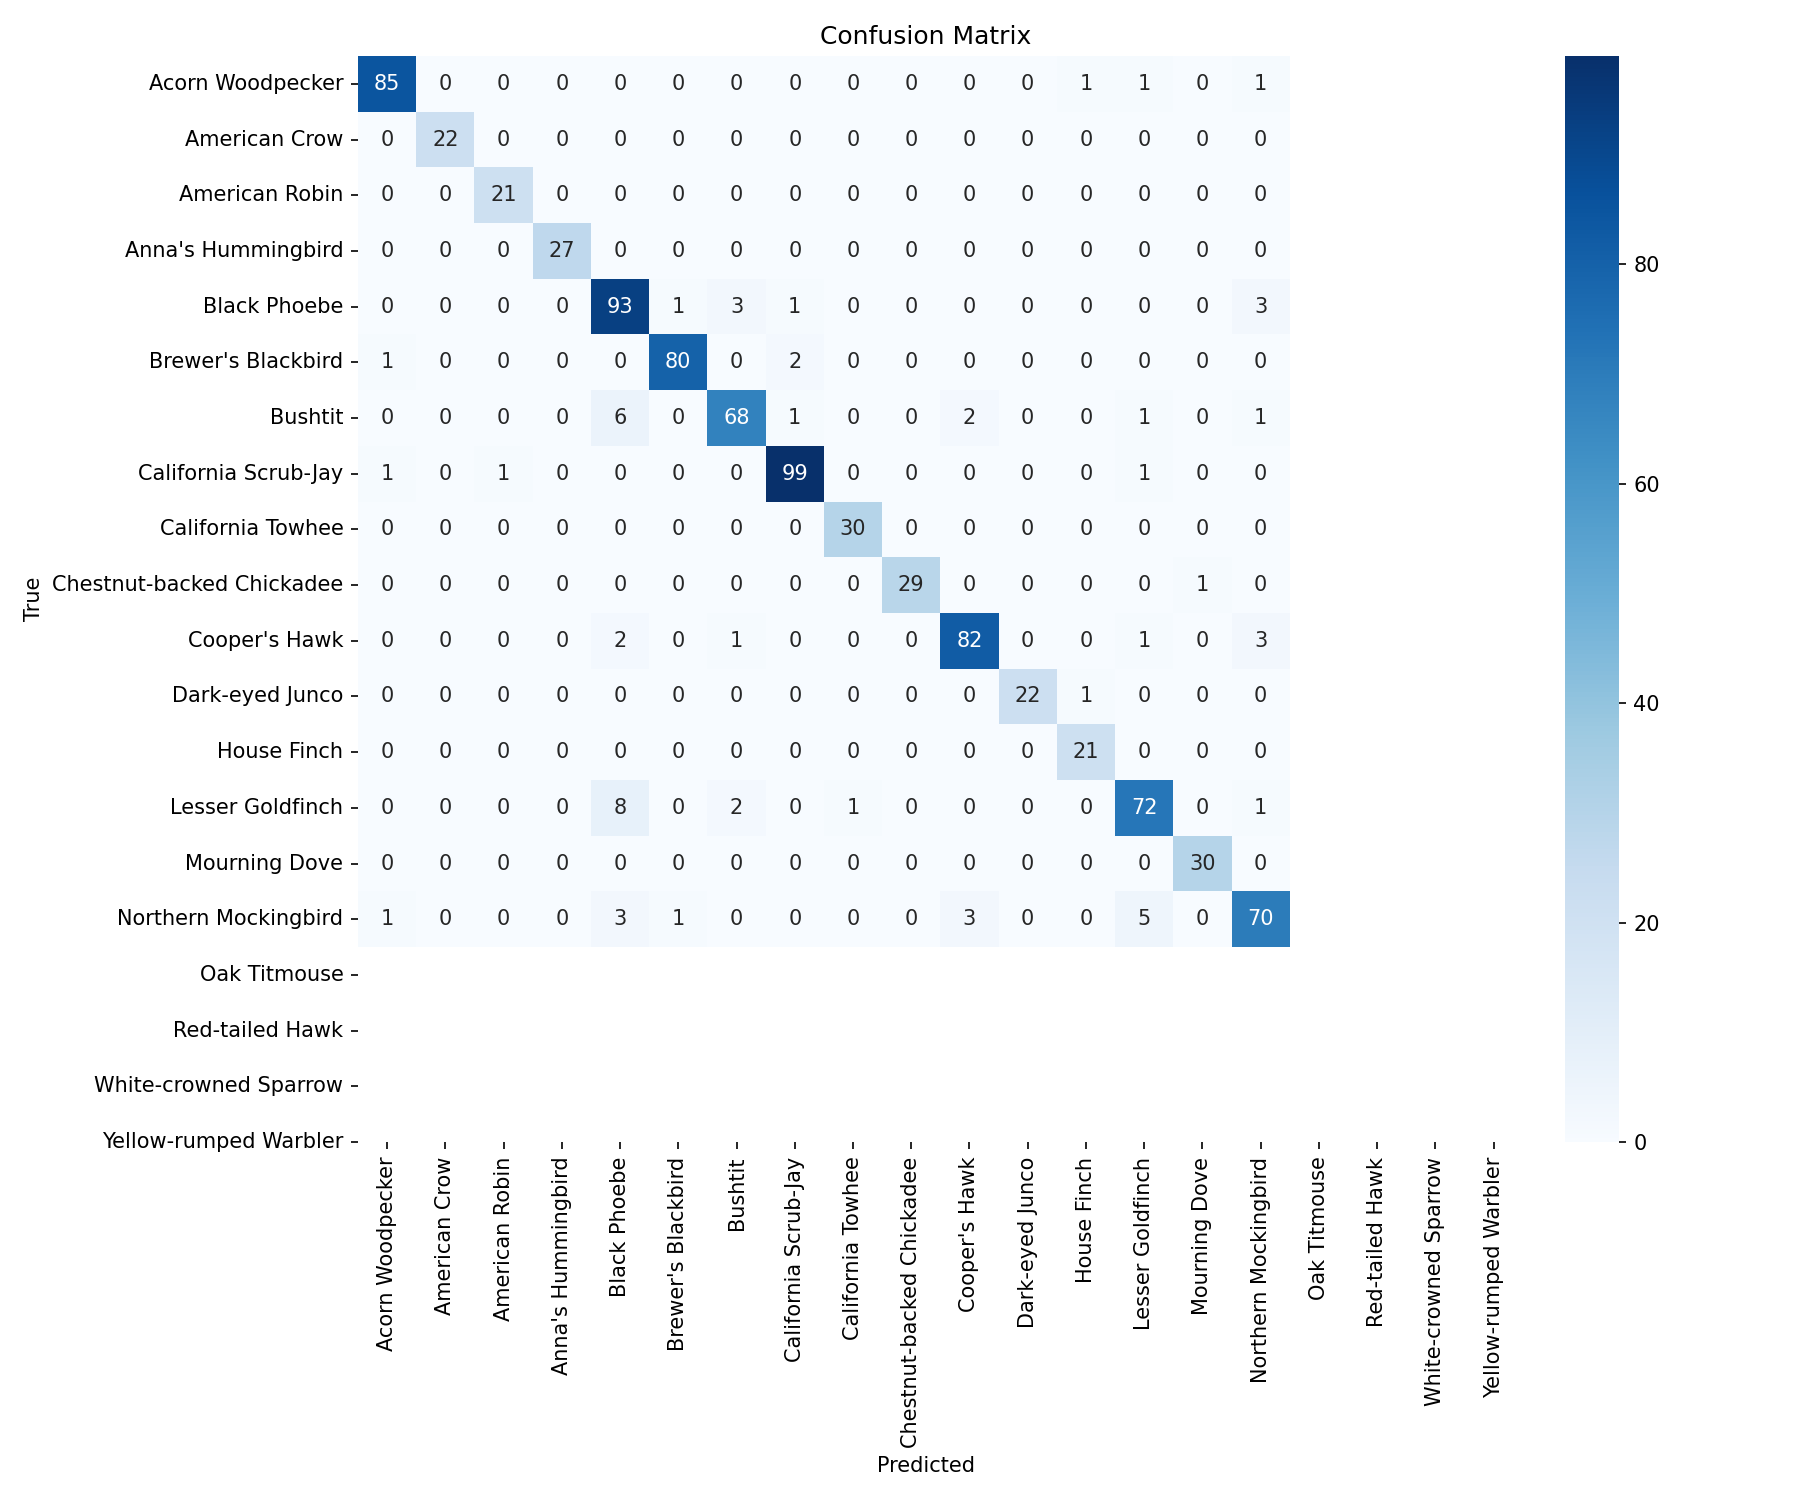
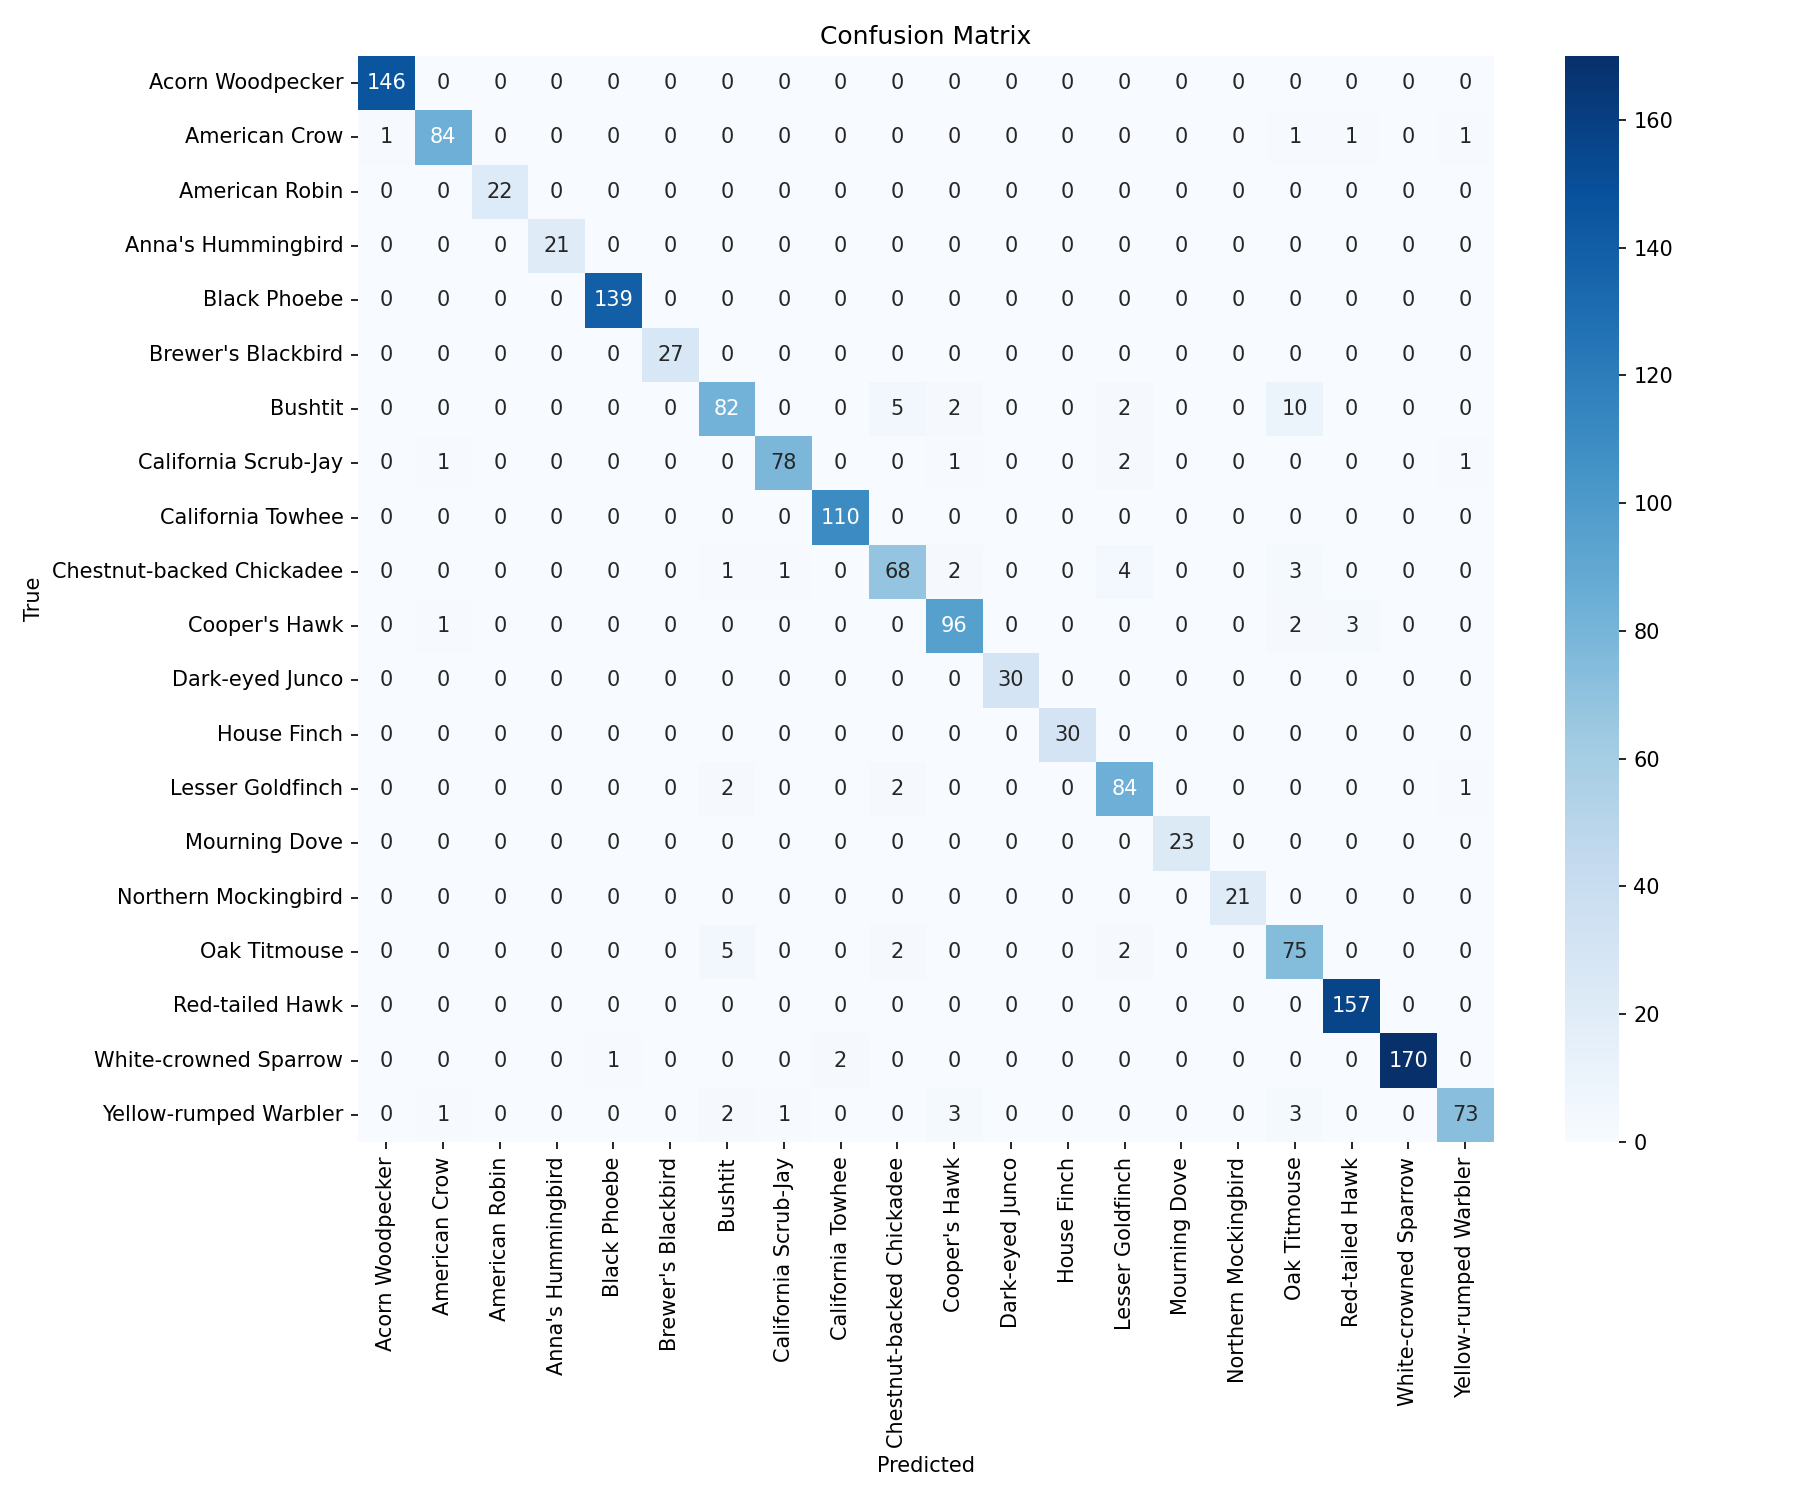
results: auto-upload at 20260605T071644Z

diff --git a/results/DOVE_report.md b/results/DOVE_report.md
@@ -1,43 +1,9 @@
 # DOVE — Results Report
 
-_Auto-generated. 16 experiments._
+_Auto-generated. 24 experiments._
 
 ## 1. Experiment Results
 
 | # | Experiment | Test Acc | Top-3 Acc |
 |---|-----------|----------|----------|
-| 1 | `swin_t_cross_attention_mlp` | 0.9321 | 0.9847 |
-| 2 | `swin_t_cross_attention_linear` | 0.9343 | 0.9858 |
-| 3 | `swin_t_concat_mlp` | 0.9288 | 0.9869 |
-| 4 | `swin_t_concat_linear` | 0.9299 | 0.9836 |
-| 5 | `efficientnet_b3_cross_attention_mlp` | 0.9244 | 0.9792 |
-| 6 | `efficientnet_b3_cross_attention_linear` | 0.9409 | 0.9825 |
-| 7 | `efficientnet_b3_concat_mlp` | 0.9255 | 0.9814 |
-| 8 | `efficientnet_b3_concat_linear` | 0.9376 | 0.9880 |
-| 9 | `mobilenet_cross_attention_mlp` | 0.9376 | 0.9836 |
-| 10 | `mobilenet_cross_attention_linear` | 0.9409 | 0.9858 |
-| 11 | `mobilenet_concat_mlp` | 0.9376 | 0.9814 |
-| 12 | `mobilenet_concat_linear` | 0.9343 | 0.9901 |
-| 13 | `vgg19_cross_attention_mlp` | 0.9310 | 0.9869 |
-| 14 | `vgg19_cross_attention_linear` | 0.9387 | 0.9858 |
-| 15 | `vgg19_concat_mlp` | 0.9299 | 0.9825 |
-| 16 | `vgg19_concat_linear` | 0.9299 | 0.9880 |
-
-## 2. Top-10 Configurations
-
-| name                                   | backbone        | fusion          | head   |   test_accuracy |   top3_accuracy |
-|:---------------------------------------|:----------------|:----------------|:-------|----------------:|----------------:|
-| efficientnet_b3_cross_attention_linear | efficientnet_b3 | cross_attention | linear |        0.940854 |        0.982475 |
-| mobilenet_cross_attention_linear       | mobilenet       | cross_attention | linear |        0.940854 |        0.985761 |
-| vgg19_cross_attention_linear           | vgg19           | cross_attention | linear |        0.938664 |        0.985761 |
-| efficientnet_b3_concat_linear          | efficientnet_b3 | concat          | linear |        0.937568 |        0.987952 |
-| mobilenet_cross_attention_mlp          | mobilenet       | cross_attention | mlp    |        0.937568 |        0.983571 |
-| mobilenet_concat_mlp                   | mobilenet       | concat          | mlp    |        0.937568 |        0.98138  |
-| swin_t_cross_attention_linear          | swin_t          | cross_attention | linear |        0.934283 |        0.985761 |
-| mobilenet_concat_linear                | mobilenet       | concat          | linear |        0.934283 |        0.990142 |
-| swin_t_cross_attention_mlp             | swin_t          | cross_attention | mlp    |        0.932092 |        0.984666 |
-| vgg19_cross_attention_mlp              | vgg19           | cross_attention | mlp    |        0.930997 |        0.986857 |
-
-## 3. Conclusions
-
-Best configuration: `efficientnet_b3_cross_attention_linear` with **94.09%** test accuracy (top-3: 98.25%).
+| 1 | `swin_t_cross_attention_mlp` | 0.9552 | 0.9919 |